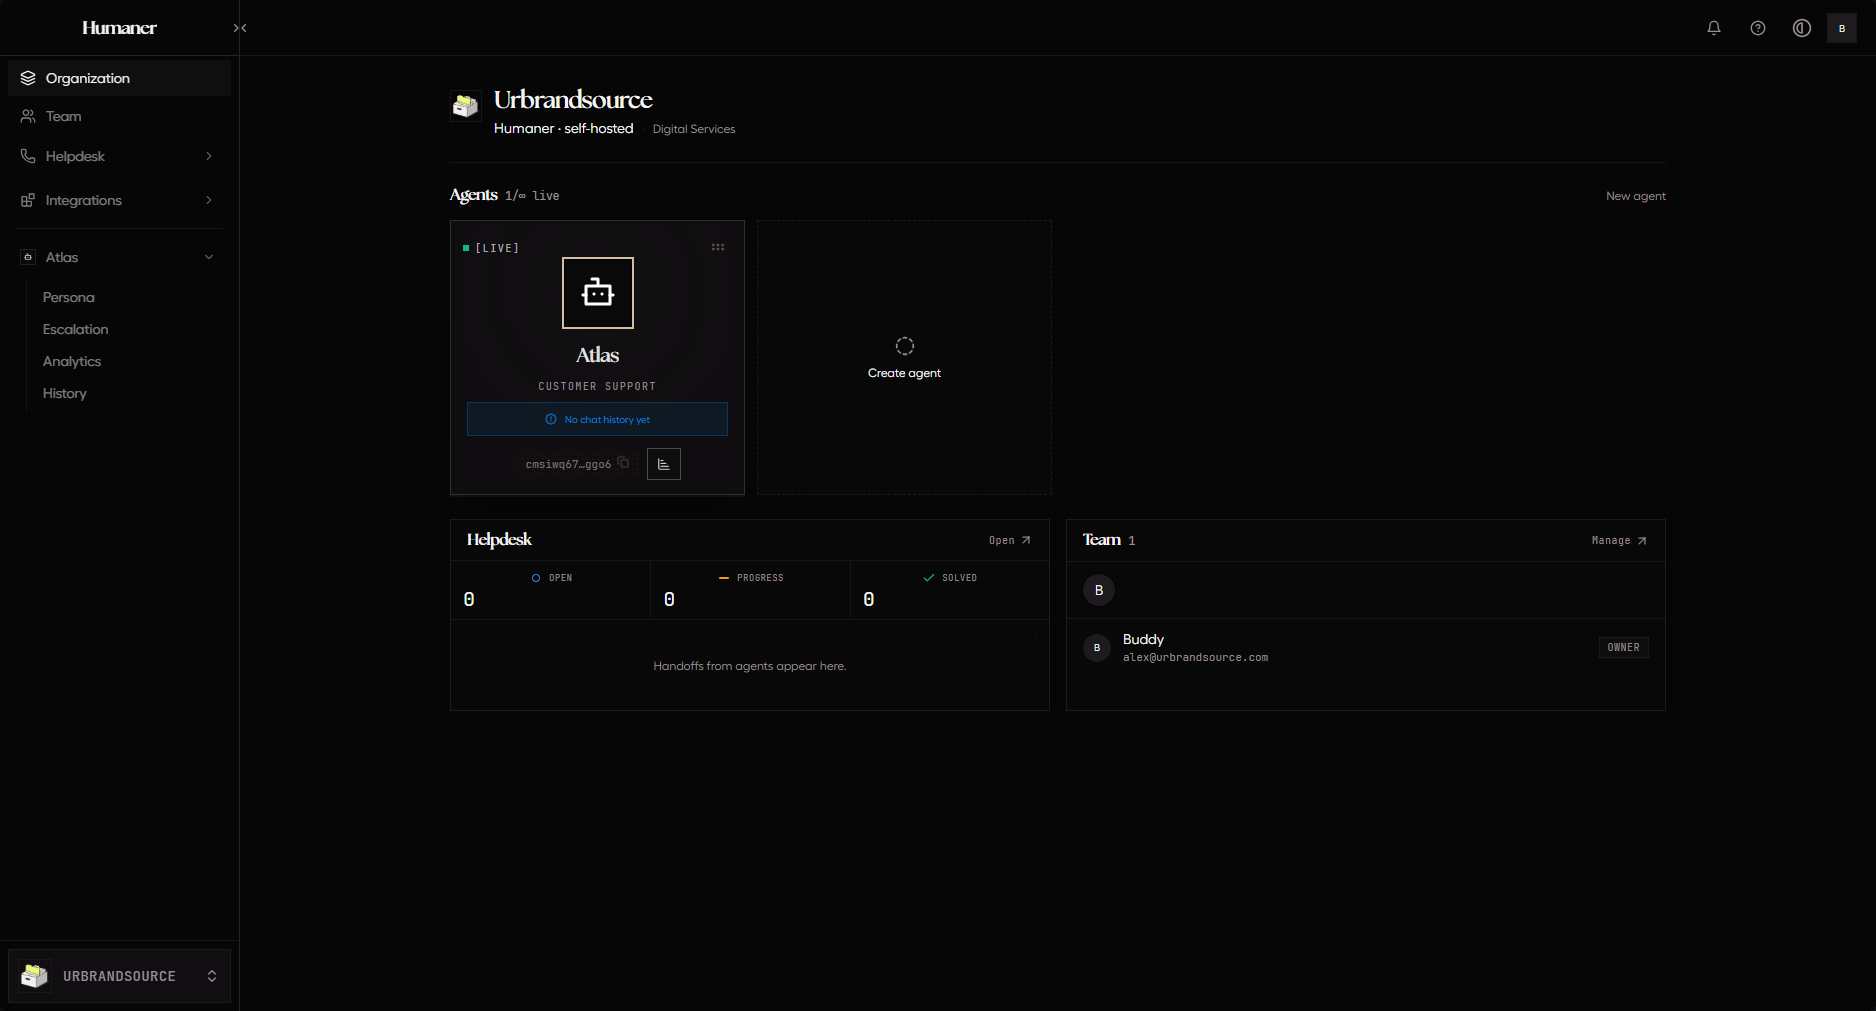
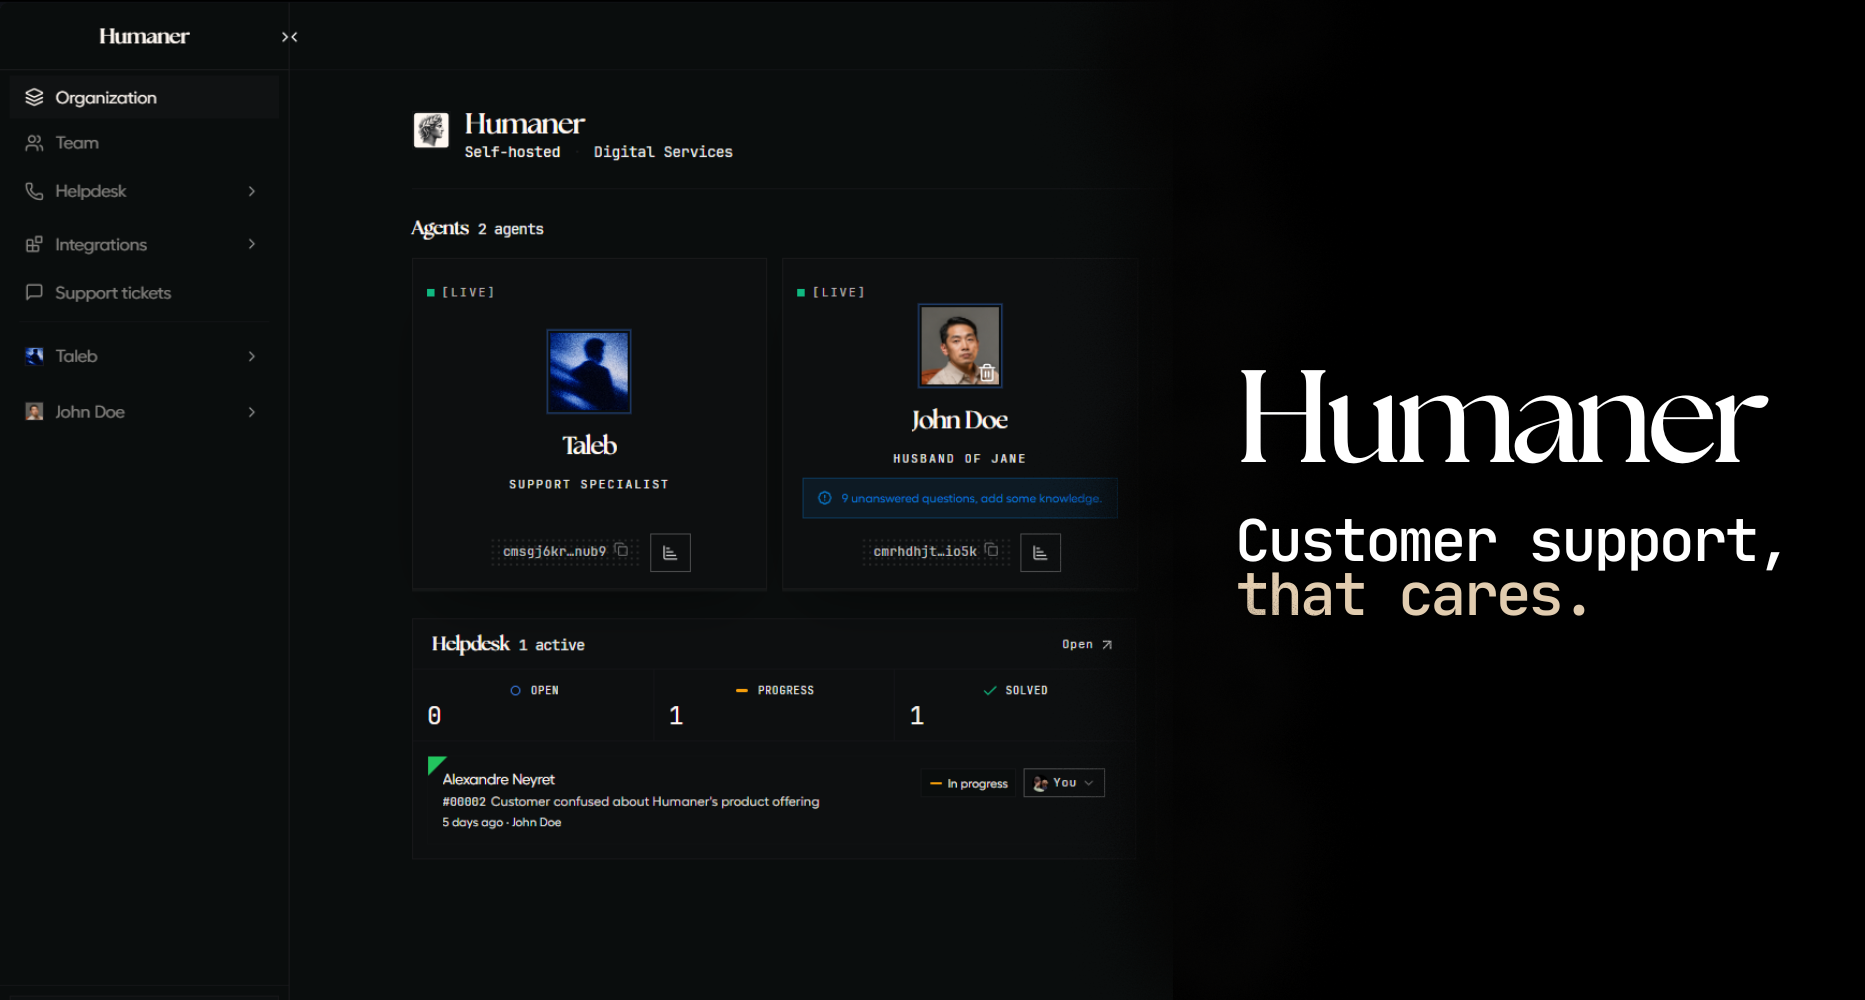
agents

diff --git a/apps/dashboard/components/dashboard/inbox/mail-thread-detail.tsx b/apps/dashboard/components/dashboard/inbox/mail-thread-detail.tsx
@@ -617,43 +617,45 @@ export function MailThreadDetail({
           </ol>
 
           {!composerOpen ? (
-            <div className="flex flex-wrap items-center justify-between gap-2 pt-1">
-              <div className="flex flex-wrap gap-2">
-                <Button
-                  type="button"
-                  variant="outline"
-                  size="sm"
-                  className="h-9 gap-2 rounded-none bg-background px-4"
-                  onClick={openReply}
-                >
-                  <ArrowRightIcon className="size-3.5 rotate-180" />
-                  Reply
-                </Button>
-                <Button
-                  type="button"
-                  variant="outline"
-                  size="sm"
-                  className="h-9 gap-2 rounded-none bg-background px-4"
-                  onClick={() => {
-                    toast.message('Forward is coming soon');
-                  }}
-                >
-                  <ForwardGlyph className="size-3.5" />
-                  Forward
-                </Button>
+            <div className="sticky bottom-0 z-20 -mx-4 mt-1 border-t border-border/60 bg-background/95 px-4 py-3 backdrop-blur supports-[backdrop-filter]:bg-background/80 sm:-mx-6 sm:px-6">
+              <div className="flex flex-wrap items-center justify-between gap-2">
+                <div className="flex flex-wrap gap-2">
+                  <Button
+                    type="button"
+                    variant="outline"
+                    size="sm"
+                    className="h-9 gap-2 rounded-none bg-background px-4"
+                    onClick={openReply}
+                  >
+                    <ArrowRightIcon className="size-3.5 rotate-180" />
+                    Reply
+                  </Button>
+                  <Button
+                    type="button"
+                    variant="outline"
+                    size="sm"
+                    className="h-9 gap-2 rounded-none bg-background px-4"
+                    onClick={() => {
+                      toast.message('Forward is coming soon');
+                    }}
+                  >
+                    <ForwardGlyph className="size-3.5" />
+                    Forward
+                  </Button>
+                </div>
+                {!suggesting ? (
+                  <Button
+                    type="button"
+                    variant="outline"
+                    size="sm"
+                    className="ml-auto h-9 gap-2 rounded-none bg-background px-4"
+                    onClick={suggestAgain}
+                  >
+                    <SkillzCubeLoader size={18} />
+                    Suggest
+                  </Button>
+                ) : null}
               </div>
-              {!suggesting ? (
-                <Button
-                  type="button"
-                  variant="outline"
-                  size="sm"
-                  className="ml-auto h-9 gap-2 rounded-none bg-background px-4"
-                  onClick={suggestAgain}
-                >
-                  <SkillzCubeLoader size={18} />
-                  Suggest
-                </Button>
-              ) : null}
             </div>
           ) : null}
 

diff --git a/apps/dashboard/components/dashboard/home/dashboard-overview-strip.tsx b/apps/dashboard/components/dashboard/home/dashboard-overview-strip.tsx
@@ -77,26 +77,24 @@ export function DashboardOverviewStrip({
         ) : null}
         <div className="min-w-0 space-y-1.5">
           <h1 className="page-title truncate">{organizationName}</h1>
-          <p className="flex flex-wrap items-center gap-x-2 gap-y-1 text-sm text-muted-foreground">
+          <p className="flex flex-wrap items-center gap-x-2 gap-y-1 font-mono text-xs leading-none text-muted-foreground">
             {selfHostMode ? (
-              <span className="font-medium text-foreground">
-                {AppInfo.APP_NAME} · self-hosted
-              </span>
+              <span className="leading-none text-foreground">Self-hosted</span>
             ) : (
               <>
                 <HintLabel
                   hint={`${plan.name} plan · ${plan.humanerModel.tagline}`}
-                  className="font-medium"
+                  className="leading-none font-medium"
                 >
                   <span style={{ color: tierAccent }}>{plan.name}</span>
                 </HintLabel>
                 <span
                   aria-hidden
-                  className="text-border"
+                  className="inline-flex size-[1em] items-center justify-center leading-none text-border"
                 >
                   ·
                 </span>
-                <span className="font-mono text-xs tabular-nums">
+                <span className="tabular-nums leading-none">
                   {plan.includedMessages.toLocaleString()} msg/mo
                 </span>
               </>
@@ -105,24 +103,24 @@ export function DashboardOverviewStrip({
               <>
                 <span
                   aria-hidden
-                  className="text-border"
+                  className="inline-flex size-[1em] items-center justify-center leading-none text-border"
                 >
                   ·
                 </span>
-                <span className="text-xs">{industryLabel}</span>
+                <span className="leading-none">{industryLabel}</span>
               </>
             ) : null}
             {!selfHostMode && audienceLabel && audienceFontClass ? (
               <>
                 <span
                   aria-hidden
-                  className="text-border"
+                  className="inline-flex size-[1em] items-center justify-center leading-none text-border"
                 >
                   ·
                 </span>
                 <span
                   className={cn(
-                    'text-xs font-semibold tracking-tight',
+                    'leading-none font-semibold tracking-tight',
                     audienceFontClass
                   )}
                 >

diff --git a/apps/dashboard/lib/agents/compute-agent-metrics.ts b/apps/dashboard/lib/agents/compute-agent-metrics.ts
@@ -63,7 +63,7 @@ export function computeAgentMetrics(input: AgentMetricsInput): AgentMetrics {
     gaps.push('No chat history yet');
   } else if (input.unansweredMessages > 0) {
     gaps.push(
-      `${input.unansweredMessages} unanswered question${input.unansweredMessages === 1 ? '' : 's'} — add knowledge to close gaps.`
+      `${input.unansweredMessages} unanswered question${input.unansweredMessages === 1 ? '' : 's'}, add some knowledge.`
     );
   } else if (outcomeCounts.unsolved > 0) {
     gaps.push(

diff --git a/apps/dashboard/components/dashboard/nav-user.tsx b/apps/dashboard/components/dashboard/nav-user.tsx
@@ -194,7 +194,7 @@ export function NavUser({
         </Button>
       </DropdownMenuTrigger>
       <DropdownMenuContent
-        className="w-72 rounded-xl p-2"
+        className="w-72 rounded-none p-2"
         align="end"
         forceMount
       >
